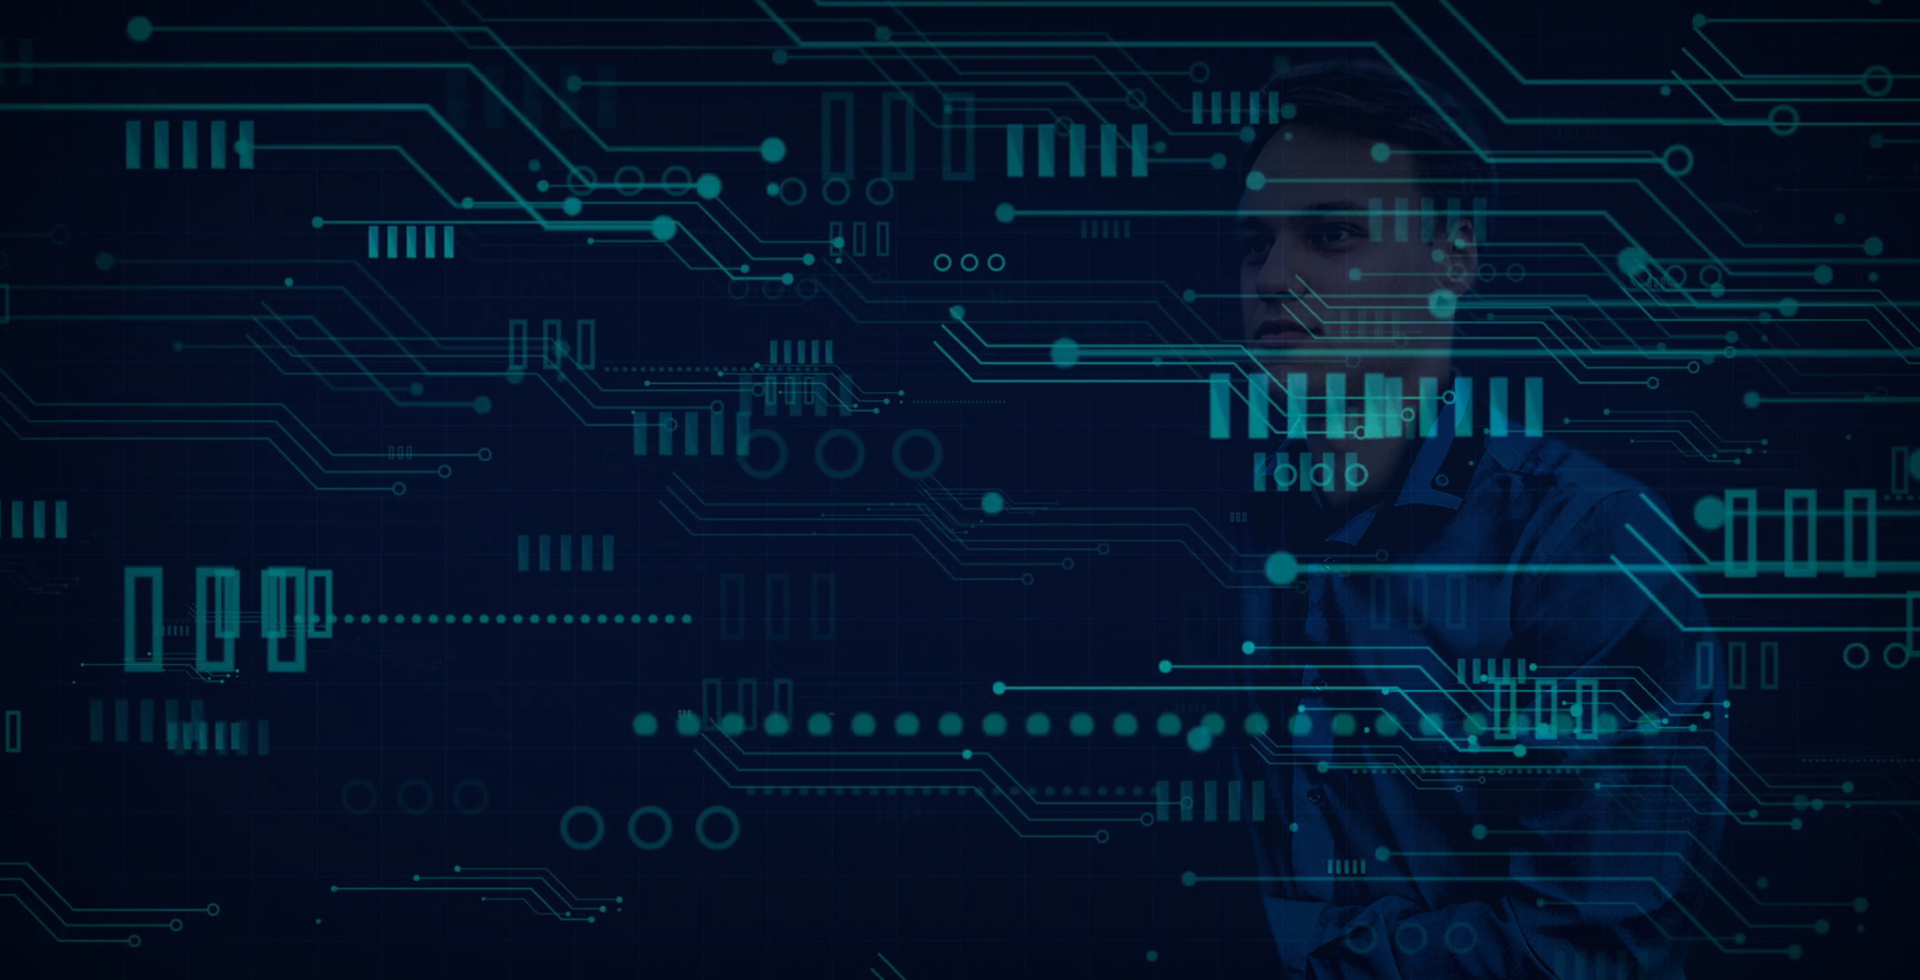
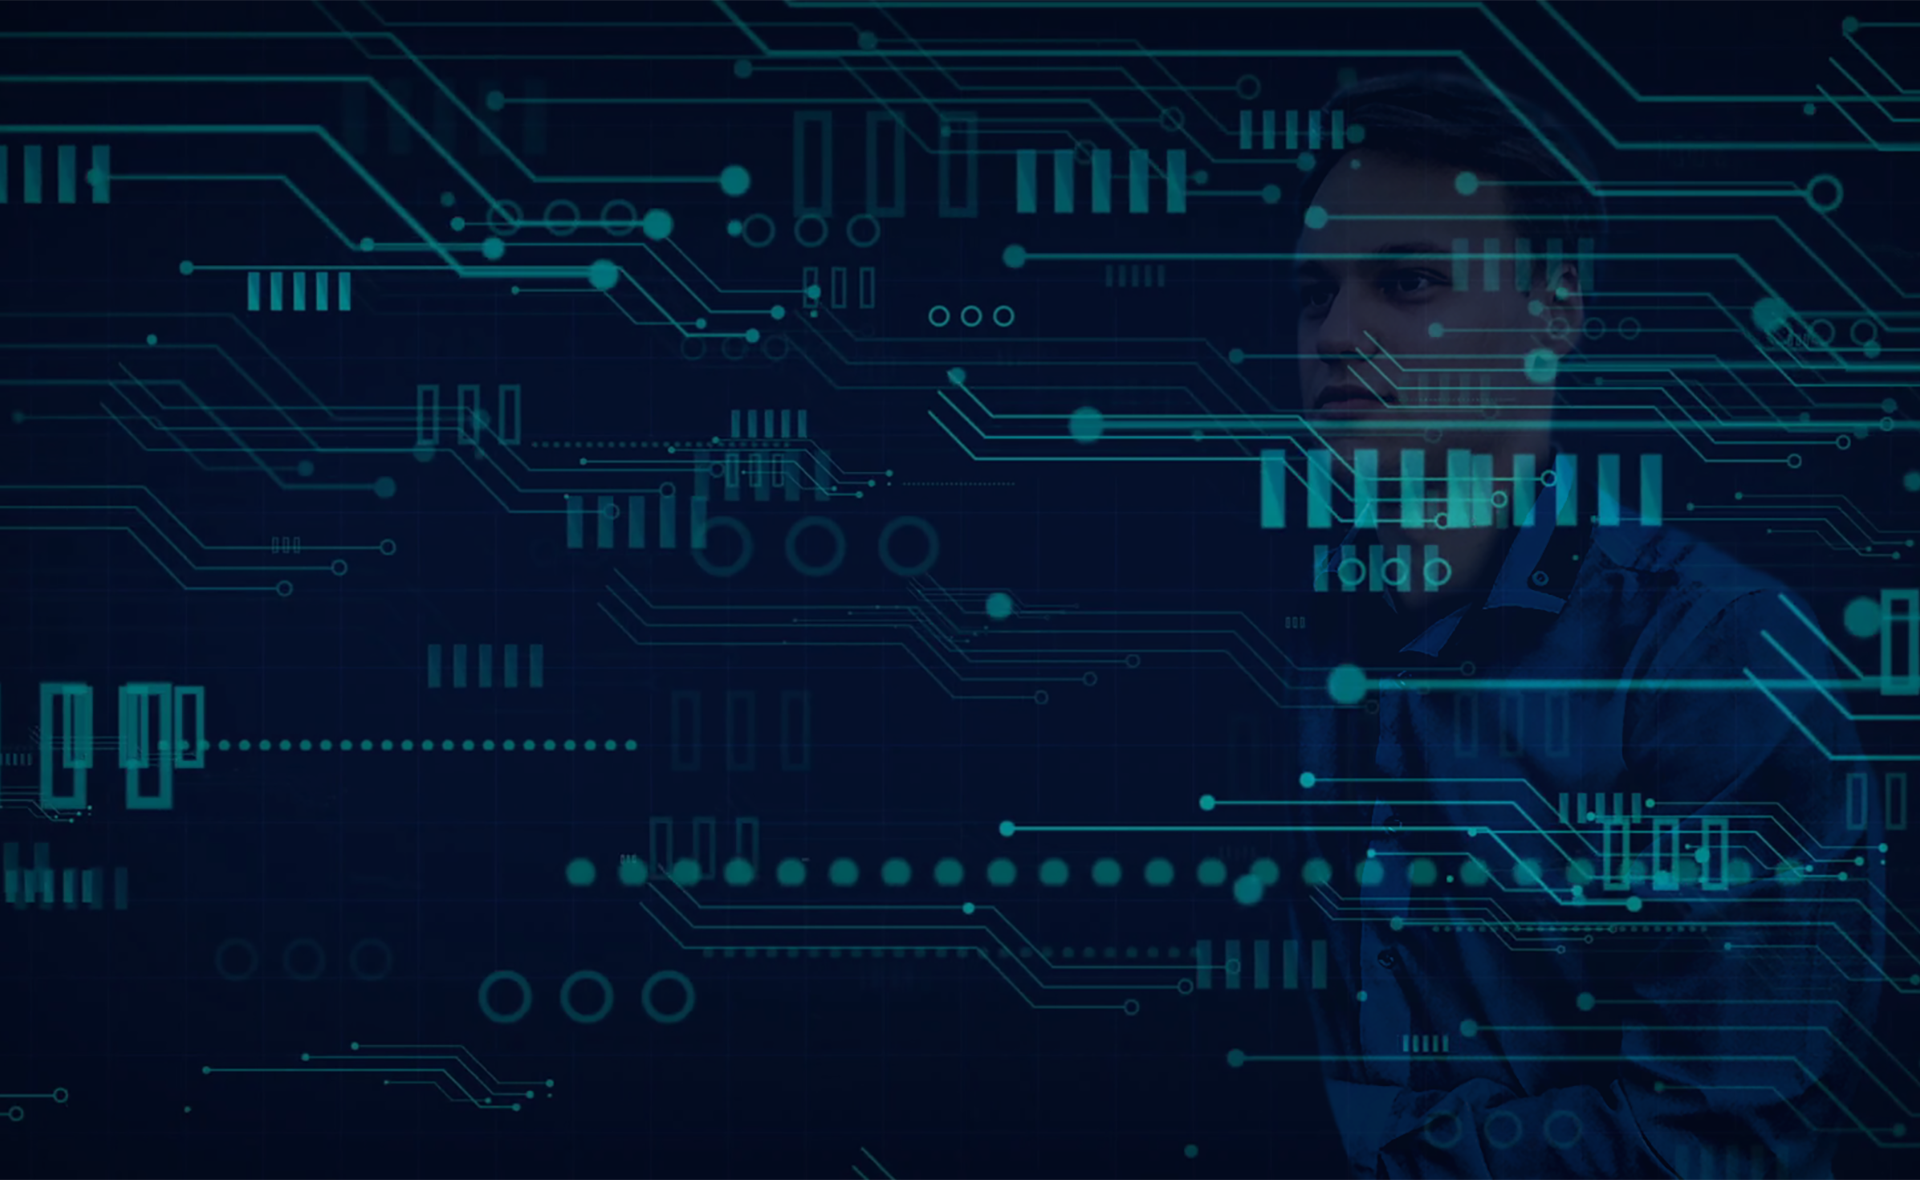
new bg

diff --git a/Portfolio/style.css b/Portfolio/style.css
@@ -71,9 +71,10 @@ header a:hover {
 
 .AboutMe {
 	background-color: #030b1e;
-	height: 980px;
+	height: 880px;
 	background: url('images/bg_about.png') no-repeat;
 	background-position: 50% 0%;
+	background-attachment: fixed; /*create paralax*/
 	background-size: 100%;
 }
 
@@ -91,7 +92,7 @@ header a:hover {
 }
 
 .textAbout h1 {
-	margin-top: 30%;	
+	margin-top: 35%;	
 	font-size: 60px;
 	font-weight: 700;
 	margin-bottom: 0;
@@ -104,6 +105,18 @@ header a:hover {
 
 .buttons {
 	margin: 0 auto;
-	border: 1px solid;
 	text-align: center;
+}
+
+
+
+
+
+
+
+
+.test {
+	background-color: lightgray;
+	height: 2000px;
+	width: 100%;
 }

diff --git a/Portfolio/index.html b/Portfolio/index.html
@@ -41,6 +41,11 @@
 		</div>
 	</section>
 
+
+
+	<section class="test"></section>
+
+
 	<script>document.write('<script src="http://' + (location.host || 'localhost').split(':')[0] + ':35729/livereload.js?snipver=1"></' + 'script>')</script>
 	<script type="text/javascript" src="scripts/script.js"></script>
 </body>
